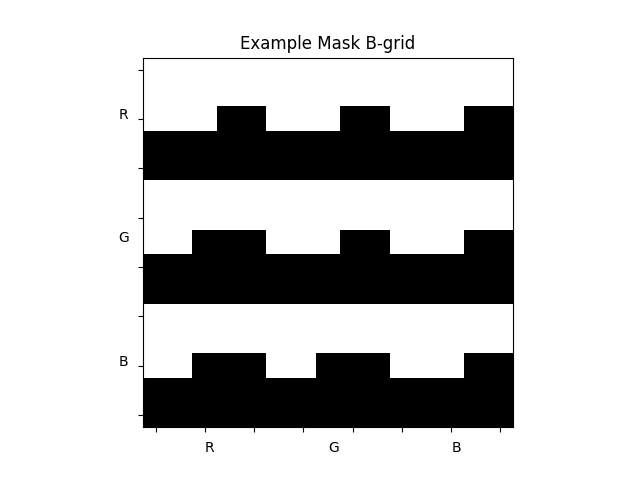
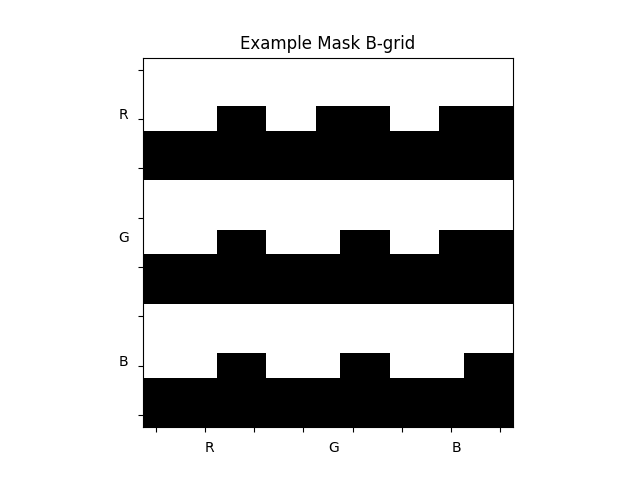
changed shape of labels and logits for loss

diff --git a/hw1/pixelCNN.py b/hw1/pixelCNN.py
@@ -5,53 +5,38 @@ from matplotlib import pyplot as plt
 
 from utils import tf_log_to_base_n
 
-
-def get_pixelcnn_mask(this_filters_shape, isTypeA, n_channels=3):
+def get_pixelcnn_mask(kernel_size, in_channels, out_channels, isTypeA, n_channels=3):
     """
-    raster ordering on conditioning
+    raster ordering on conditioning mask
 
-    this_filters_shape define the layer sizes
+    kernel_size: size N of filter N x N
+    in_channels: number of channels in
+    out_channels: number of channels out
     isTypeA: bool, true if type A mask, otherwise type B mask used.
-    Type A takes context and previous channels (but not its own channel)
-    Type B takes context, prev channels and connected to own channel.
+        Type A takes context and previous channels (but not its own channel)
+        Type B takes context, prev channels and connected to own channel.
 
     We group the filters so that different filters correspond to different channels.
     first 3 are R, next 3 are G, last 3 are B
 
     Returns mask of shape (kernel_size, kernel_size, # channels, # filters)
     """
-    mask = np.zeros(this_filters_shape)
-    ctr_pix = [this_filters_shape[0] // 2, this_filters_shape[1] // 2]
-    # mask out all pixels conditioned on
-    for i in range(this_filters_shape[0]):
-        for j in range(this_filters_shape[1]):
-            # deal with centre pixel, then by ordering the other pixels are all 1
-            if i == ctr_pix[0] and j == ctr_pix[1]:
-                mask_centre(ctr_pix, isTypeA, mask, n_channels)
-                break
-            # mask all channels for conditioned pixels
-            elif i < ctr_pix[0] or (i == ctr_pix[0] and j < ctr_pix[1]):
-                mask[i, j, :, :] = 1
-    return mask
-
-
-def mask_centre(cur_pixel, isTypeA, mask, n_channels):
-    """
-    cur_pixel location (row, col)
-    mask is the mask to build of shape filters_shape
-    n_channels is the number of channels usually 3
-
-    first 3 are R, next 3 are G, last 3 are B
-    mask of shape (kernel_size, kernel_size, # channels, # filters)
-    so 3rd dimension (# channels) is prev layer's RGB
-    and 4th dimension (# filters) is next layer's RGB
-    """
+    mask = np.ones((kernel_size, kernel_size, in_channels, out_channels))
+    centre = kernel_size // 2
+    for i in range(kernel_size):
+        for j in range(kernel_size):
+            if (j > centre) or (j == centre and i > centre):
+                mask[j, i, :, :] = 0.
     for i in range(n_channels):
         for j in range(n_channels):
-            if not isTypeA and i <= j:
-                mask[cur_pixel[0], cur_pixel[1], i::n_channels, j::n_channels] = 1
-            elif i < j:
-                mask[cur_pixel[0], cur_pixel[1], i::n_channels, j::n_channels] = 1
+            if (isTypeA and i >= j) or (not isTypeA and i > j):
+                mask[
+                centre,
+                centre,
+                j::n_channels,
+                i::n_channels,
+                ] = 0.
+    return mask
 
 
 class MaskedCNN(tf.keras.layers.Conv2D):
@@ -60,13 +45,15 @@ class MaskedCNN(tf.keras.layers.Conv2D):
         n_filters and kernel_size for conv layer
         isTypeA for mask type
         """
+        assert isinstance(kernel_size, int), "Masked CNN requires square n x n kernel"
         super(MaskedCNN, self).__init__(n_filters, kernel_size, padding="SAME",
                                         activation=activation, **kwargs)
         self.isTypeA = isTypeA
 
     def build(self, input_shape):
         super().build(input_shape)
-        self.mask = get_pixelcnn_mask(self.kernel.shape, self.isTypeA)
+        (_, _, in_channels, out_channels) = self.kernel.shape
+        self.mask = get_pixelcnn_mask(self.kernel_size[0], in_channels, out_channels, self.isTypeA)
 
     def call(self, inputs):
         self.kernel = self.kernel * self.mask
@@ -209,8 +196,12 @@ class PixelCNN:
         return tf.reduce_mean(neg_logprobs_bits)
 
     def fwd_loss(self, X):
+        X = tf.reshape(X, (-1, self.H, self.W, self.C))
+
         logits = self.forward_logits(X)
-        loss = self.loss(tf.reshape(X, (-1, self.H * self.W, self.C)), logits)
+        logits = tf.reshape(logits, (-1, self.H, self.W, self.C, self.n_vals))
+
+        loss = self.loss(X, logits)
         return loss
 
     def get_samples(self, n):
@@ -267,8 +258,8 @@ def display_image_grid(data, title):
 
 
 def test_maskA():
-    mask_shape = (5, 5, 3, 3)
-    mask = get_pixelcnn_mask(mask_shape, True)
+    mask = get_pixelcnn_mask(5, 3, 3, True)
+    print(mask.shape)
     display_mask(mask, "Example Mask A")
 
 
@@ -293,12 +284,15 @@ def display_mask(mask, title):
 
 
 def test_maskB():
-    mask_shape = (5, 5, 3, 3)
-    mask = get_pixelcnn_mask(mask_shape, False)
+    mask = get_pixelcnn_mask(5, 3, 3, False)
     display_mask(mask, "Example Mask B")
 
 
 if __name__ == "__main__":
     test_maskA()
     test_maskB()
+
+# TODO: why is the performance so much better (quicker) on the example one?
+# TODO: try pieces of example one in here?
+# TODO: is the masking non-differentiable? print kernel pre and post mask
 

diff --git a/hw1/high_dimensional_data.py b/hw1/high_dimensional_data.py
@@ -10,6 +10,11 @@ def load_data(pct_val=0.15):
     return train_data[int(len(train_data) * pct_val):], train_data[:int(len(train_data) * pct_val)], data["test"]
 
 
+def plot_data():
+    X_train, X_val, X_test = load_data()
+    display_image_grid(X_train[:9], "Training-Data")
+
+
 def set_seed(seed=100):
     np.random.seed(seed)
 
@@ -82,7 +87,7 @@ def debug_data(n_samples=10000, pct_val=0.15, pct_test=0.2):
            data[int(n_samples * (pct_train+pct_val)):]
 
 
-def pixel_cnn_debug(one_pattern=False):
+def pixel_cnn_debug(one_pattern=True):
     """
     one_pattern: if true repeats a single example to debug overfitting to one sample
     otherwise a sample of perturbed checkerboards are used.
@@ -96,15 +101,16 @@ def pixel_cnn_debug(one_pattern=False):
         train_and_eval_main(X_test, X_train, X_val, model)
 
 
-def plot_data():
-    X_train, X_val, X_test = load_data()
-    display_image_grid(X_train[:9], "Training-Data")
+def plot_debug_data():
+    X_train, X_val, X_test = debug_data()
+    display_image_grid(X_train[:9], None)
 
 
 if __name__ == "__main__":
     set_seed()
 
     # plot_data()
-
-    pixel_cnn_debug()
     # pixel_cnn_main()
+
+    # plot_debug_data()
+    pixel_cnn_debug()
